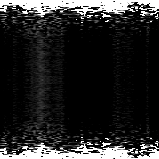
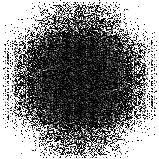
Fixed to take FFT of 2D matrix

diff --git a/fft_auto_correlate.m b/fft_auto_correlate.m
@@ -66,7 +66,7 @@ fprintf('Done!\n');
 
 % Get the FFT of x
 fprintf('FFT of x...');
-F = fft(x);
+F = fft2(x);
 figure('Name', 'FFT of x', 'NumberTitle', 'off');
 imshow(F); title('FFT of x');
 imwrite(F, './fft_x.png');
